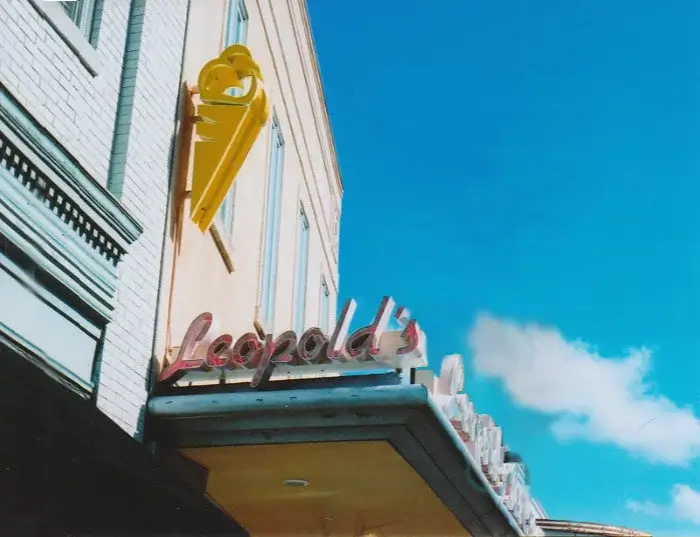
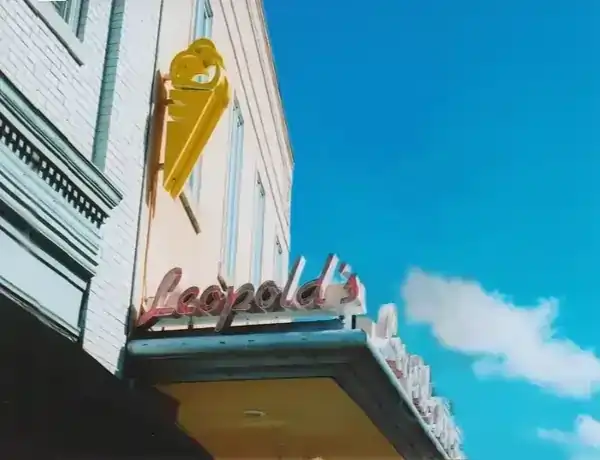
Optimizations
- Background image is half the size
- Needless JS is removed

diff --git a/index.html b/index.html
@@ -164,7 +164,6 @@
         <strong>© 2023 Leopold's Ice Cream. All Rights Reserved.</strong>
     </footer>
         <script src="track.js" defer></script>
-        <script src="slider.js" defer></script>
         <script defer>
             var buttons = Array.from(document.getElementsByClassName('button'));
             document.getElementById("expandBtn").addEventListener("click", function() {

diff --git a/style.css b/style.css
@@ -161,7 +161,6 @@ header .button.hide {
     margin: 0px 0 5px 0;
     font-size: 27px;
     font-family: 'Arcuata';
-    font-weight: 600;
     color: white;
     width: 100%;
     transform: translate3d(35%, -5px, 0);
